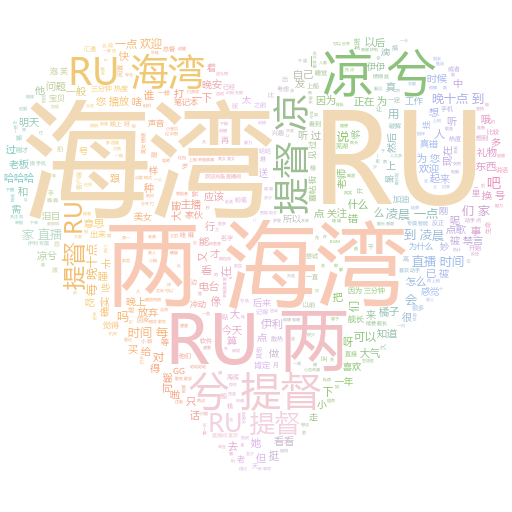
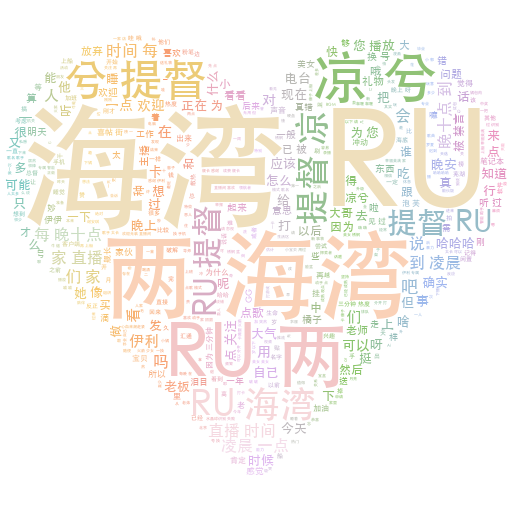
优化

Changed region(s): [[0.0, 0.0625, 1.0, 0.9375]]

diff --git a/generate.py b/generate.py
@@ -76,13 +76,17 @@ def analyseUserTop(datas):
     sortedDict = dict(d_order)
     result['label'] = list(sortedDict.keys())
     result['value'] = list(sortedDict.values())
+    result['json'] = sortedDict
     return result
 
 def analyseTime(datas):
     res = {}
     result = {}
     for item in range(24):
-            result[str(item)+':00'] = 0
+        if item < 10:
+            result['0' + str(item) + ':00'] = 0
+        else:
+            result[str(item) + ':00'] = 0
     for data in datas:
         hour = data['time'][0:2]
         if hour == "" or (not isdigit(hour)):
@@ -95,6 +99,7 @@ def analyseTime(datas):
             result[hour] = 0
     res['label'] = list(result.keys())
     res['value'] = list(result.values())
+    res['json'] = result
     # print(result)
     return res
 
@@ -140,7 +145,7 @@ def wordcloud(filename, datas):
     stylecloud.gen_stylecloud(
         text=result,  # 上面分词的结果作为文本传给text参数
         size=512,
-        font_path='msyh.ttc',  # 字体设置
+        font_path='STHeiti Medium.ttc',  # 字体设置
         palette='cartocolors.qualitative.Pastel_7',  # 调色方案选取，从palettable里选择
         gradient='horizontal',  # 渐变色方向选了垂直方向
         icon_name='fas fa-heart',  # 蒙版选取，从Font Awesome里选
